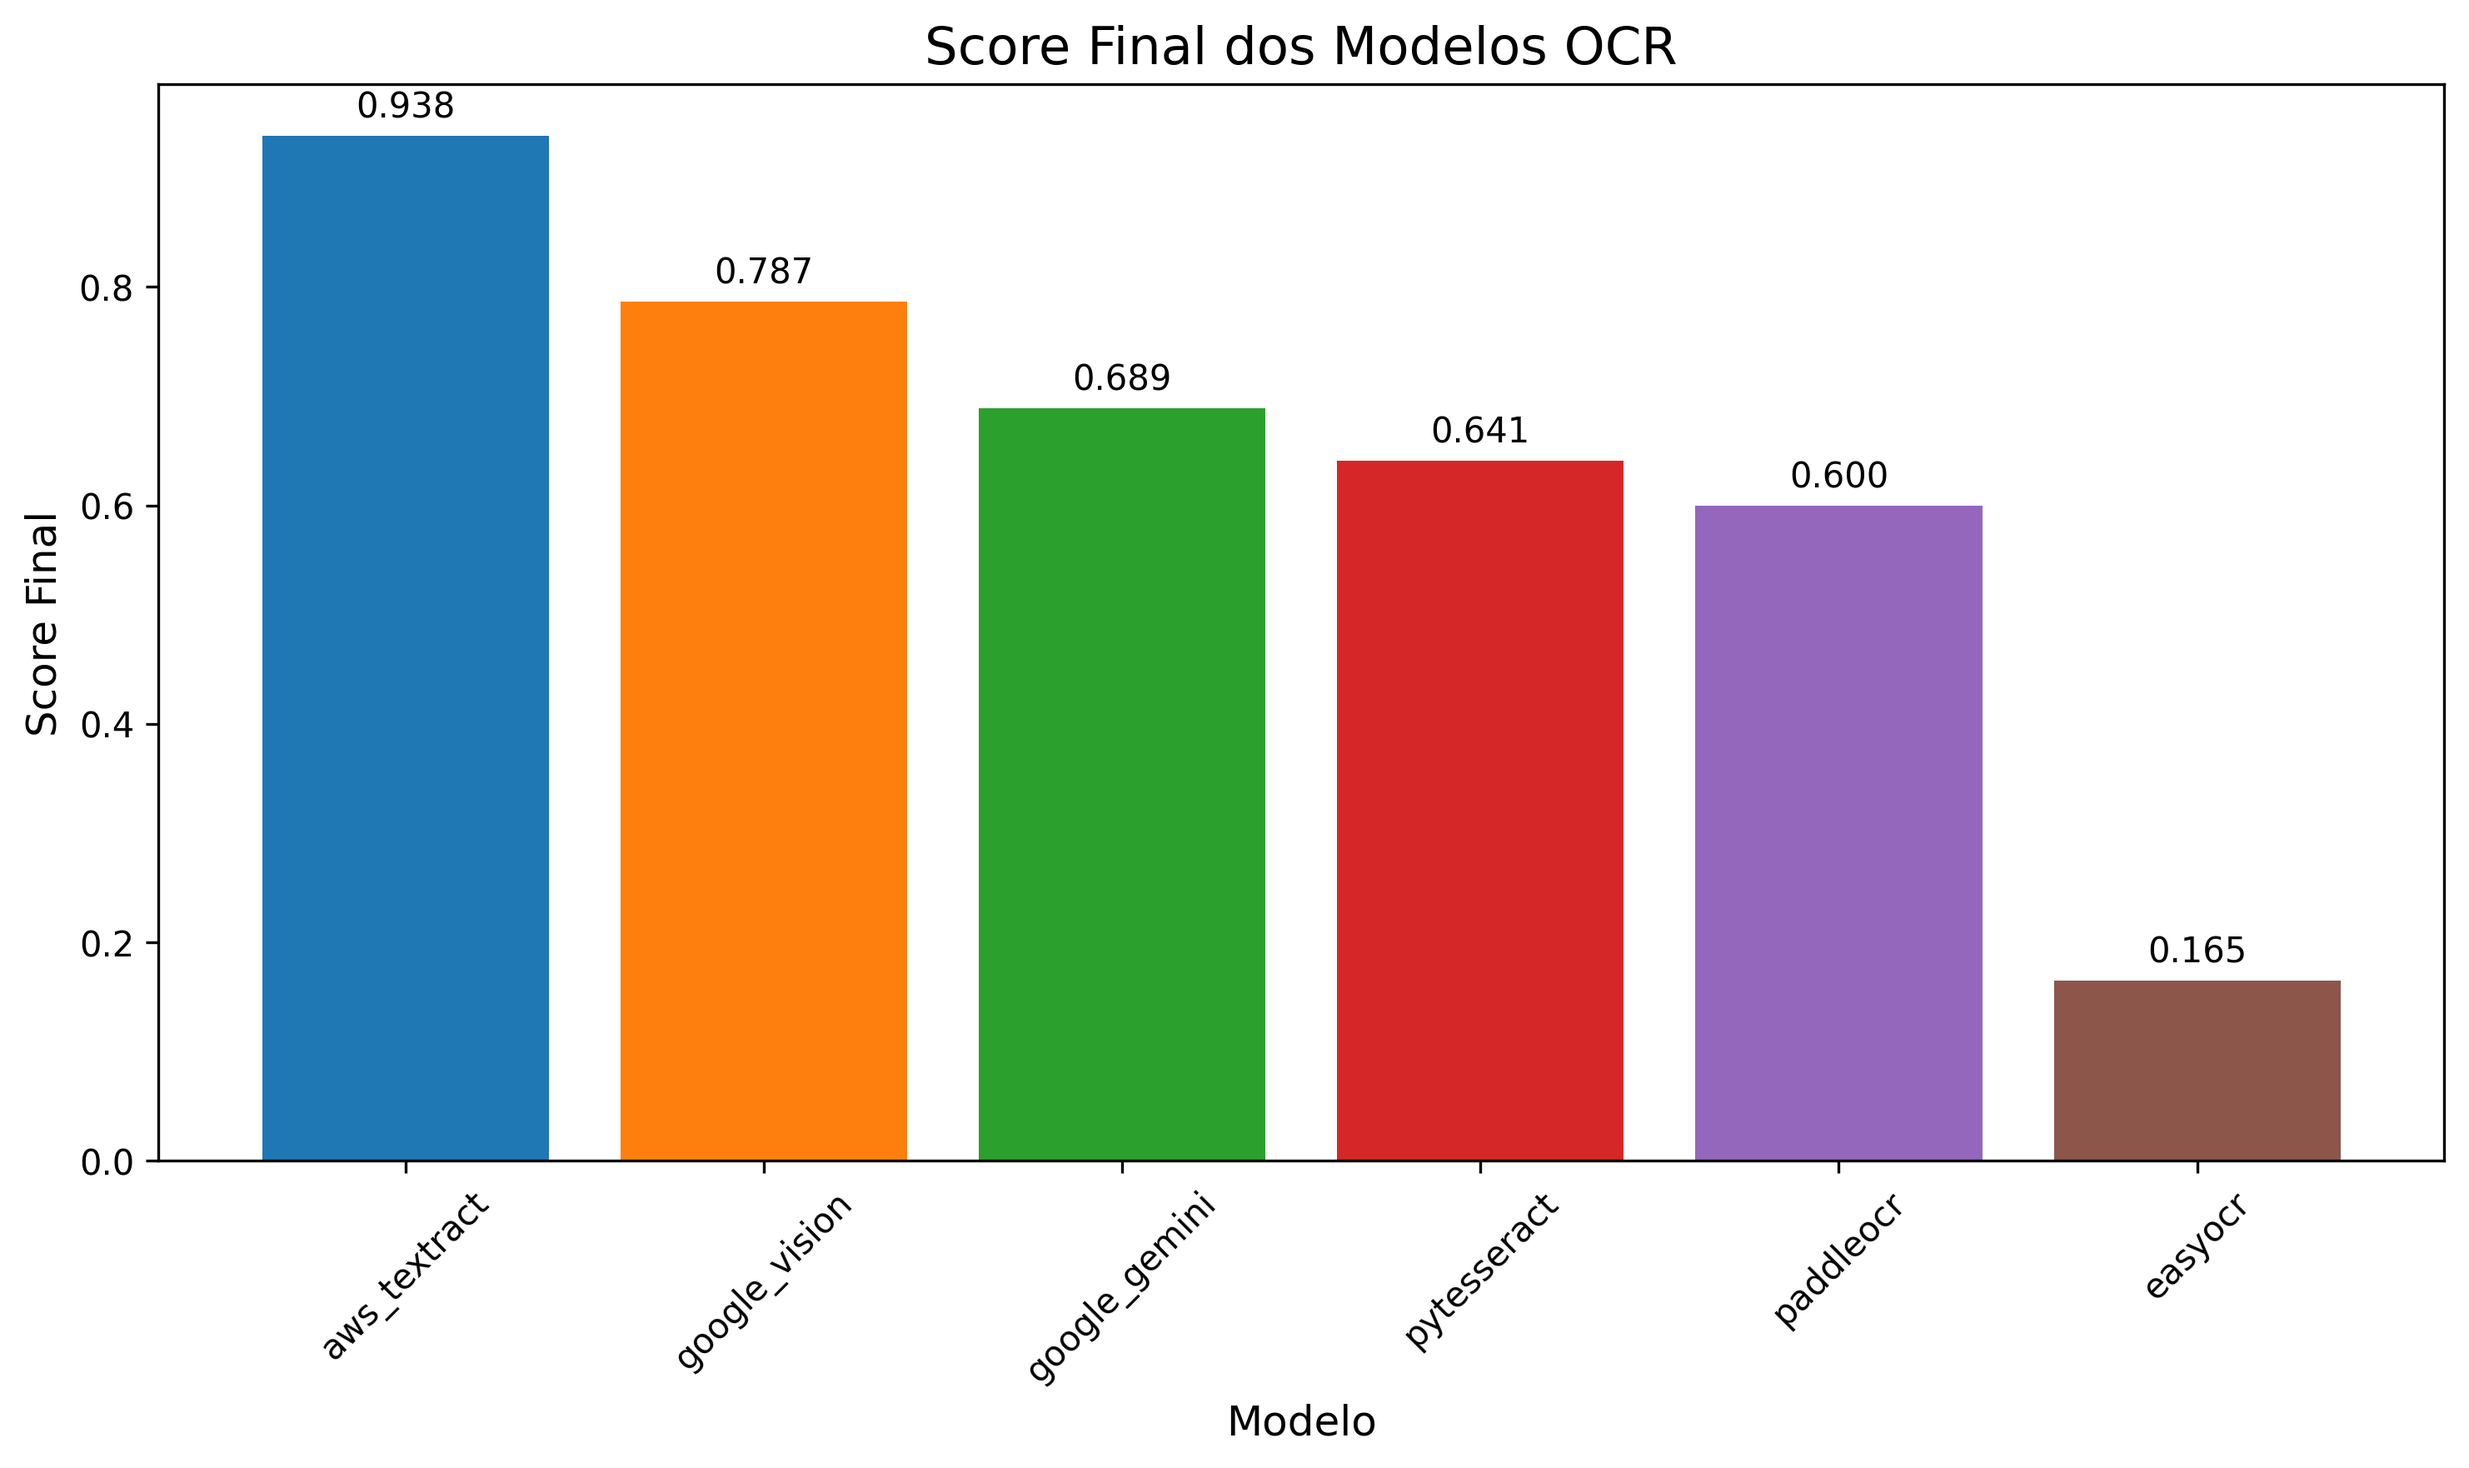
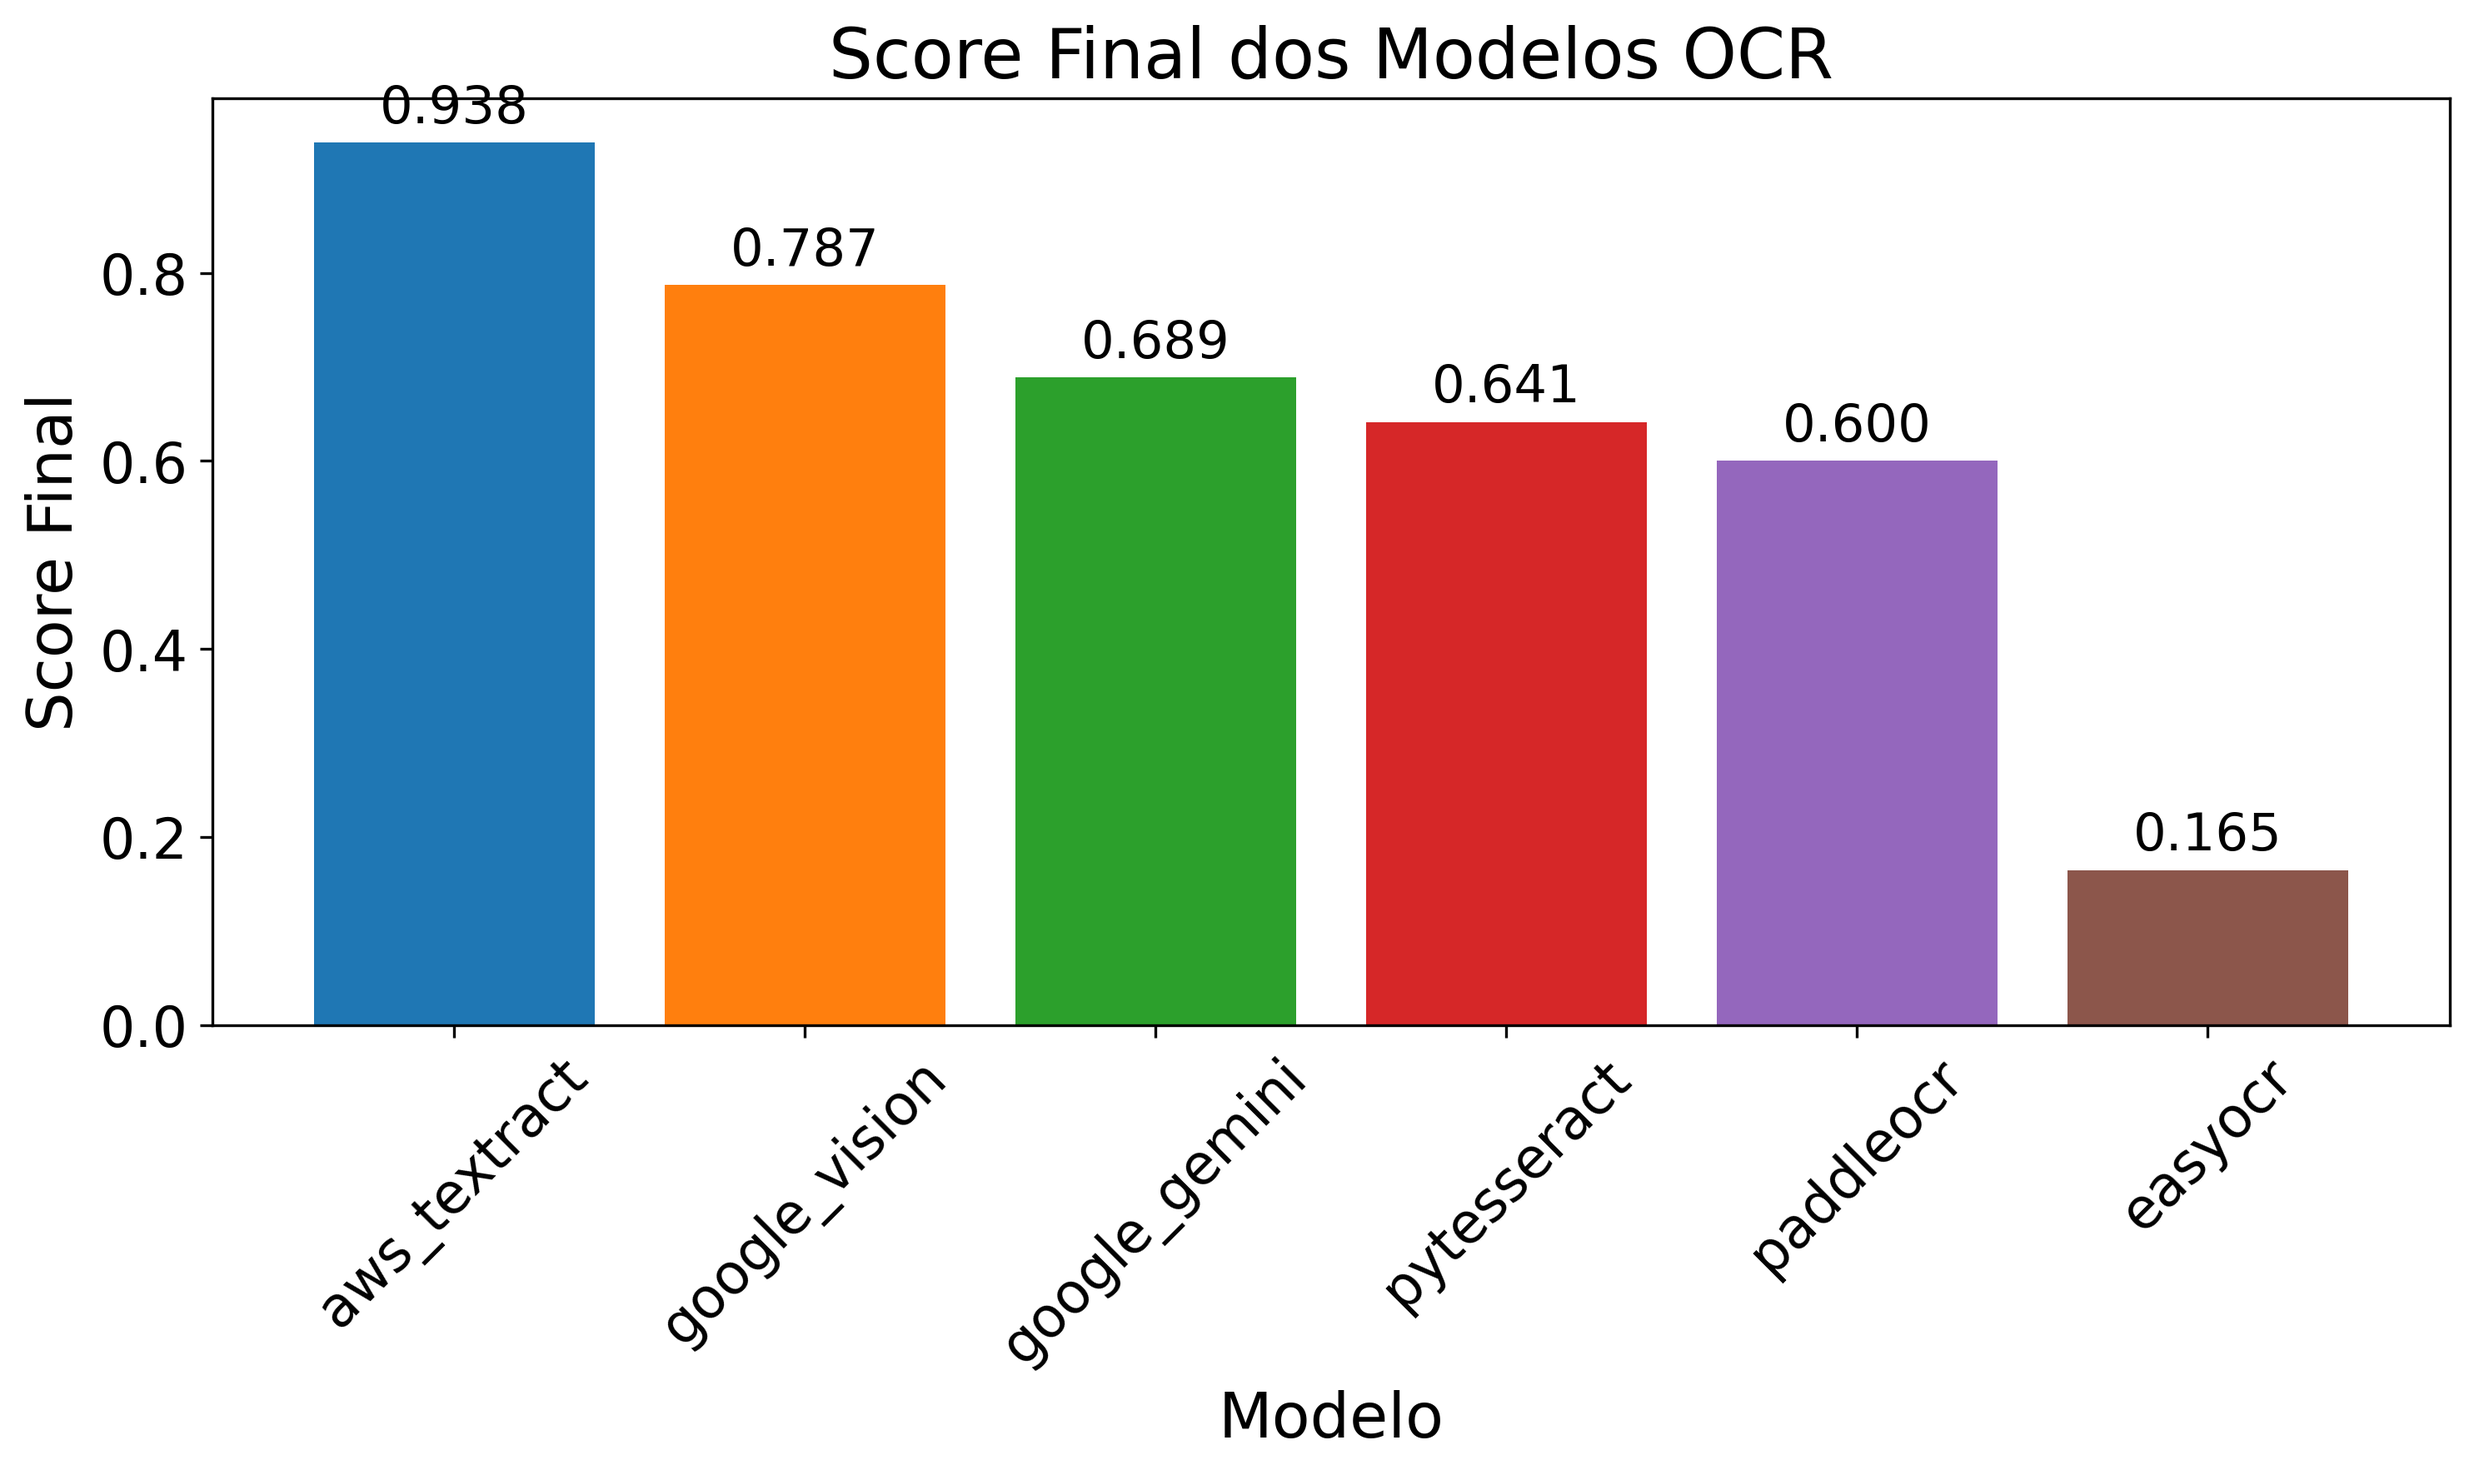
feat: Comprehensive OCR Model Evaluation with Statistical Analysis and Visualizations
This commit introduces a comprehensive evaluation framework for OCR models, incorporating statistical analysis and visualizations to compare performance across various metrics.

**Key changes:**

*   **Statistical Evaluation:**
    *   Calculates mean metrics (similarity, WER, CER) and extraction time for each OCR model.
    *   Computes an efficiency score (characters processed per second).
    *   Merges metrics and time data into a consolidated DataFrame.
    *   Calculates a final score based on normalized metrics.
    *   Saves the consolidated metrics to `metricas_consolidadas_ocr.csv`.
*   **Visualizations:**
    *   Generates radar charts to visualize normalized and raw metric values for each model, allowing for easy comparison of strengths and weaknesses. Saves the charts as `radar_plot_ocr_modelos.png` and `radar_plot_ocr_modelos_raw.png`.
    *   Creates bar charts to display the final score and individual metrics (accuracy, time, efficiency) for each model. Saves the charts as `score_final_ocr_modelos.png` and `metricas_individuais_ocr.png`.
*   **Code Modifications:**
    *   Updated `AvaliacaoEstatistica.py` to perform the statistical analysis and generate visualizations.
    *   Modified `AvaliadorQualidade_OCR.py` to include "easyocr" in the list of evaluated models.
    *   Added necessary libraries (seaborn, statsmodels, scikit\_posthocs) to `requirements.txt`.
[…]

diff --git a/Code/AvaliacaoQualitativa/AvaliacaoEstatistica.py b/Code/AvaliacaoQualitativa/AvaliacaoEstatistica.py
@@ -157,12 +157,13 @@ bars = plt.bar(df_metricas["modelo"], df_metricas["score_final"], color=color_li
 for bar in bars:
     height = bar.get_height()
     plt.text(bar.get_x() + bar.get_width()/2., height + 0.01,
-             f'{height:.3f}', ha='center', va='bottom', fontsize=10)
+             f'{height:.3f}', ha='center', va='bottom', fontsize=15)
 
-plt.title("Score Final dos Modelos OCR", fontsize=15)
-plt.xlabel("Modelo", fontsize=12)
-plt.ylabel("Score Final", fontsize=12)
-plt.xticks(rotation=45)
+plt.title("Score Final dos Modelos OCR", fontsize=20)
+plt.xlabel("Modelo", fontsize=18)
+plt.ylabel("Score Final", fontsize=18)
+plt.xticks(rotation=45,fontsize=16)
+plt.yticks(fontsize=16)
 plt.tight_layout()
 plt.savefig("score_final_ocr_modelos.png", dpi=300, bbox_inches='tight')
 plt.show()
